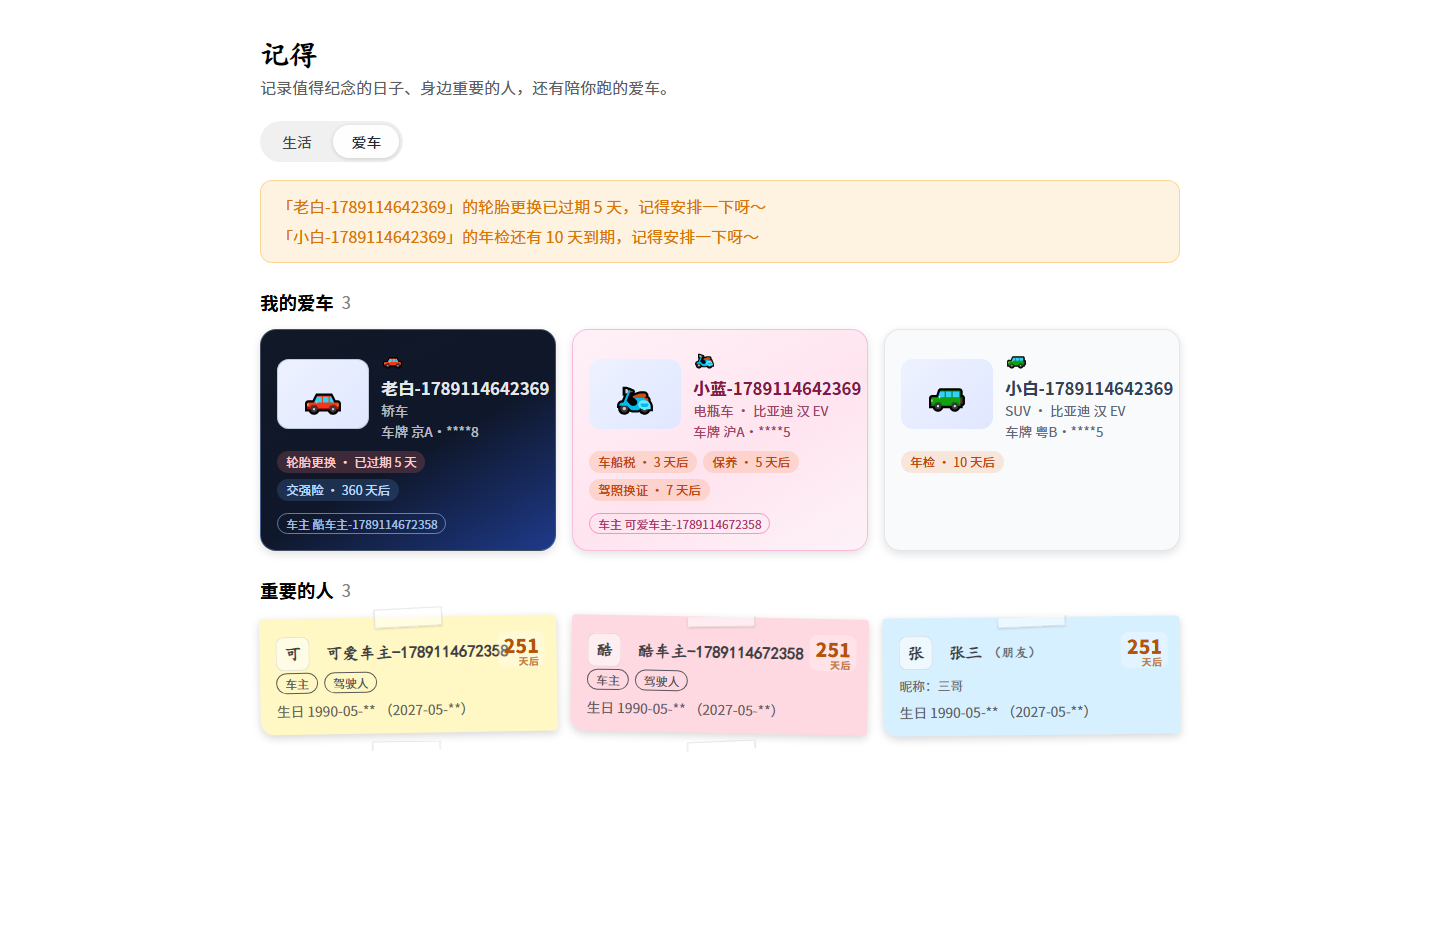
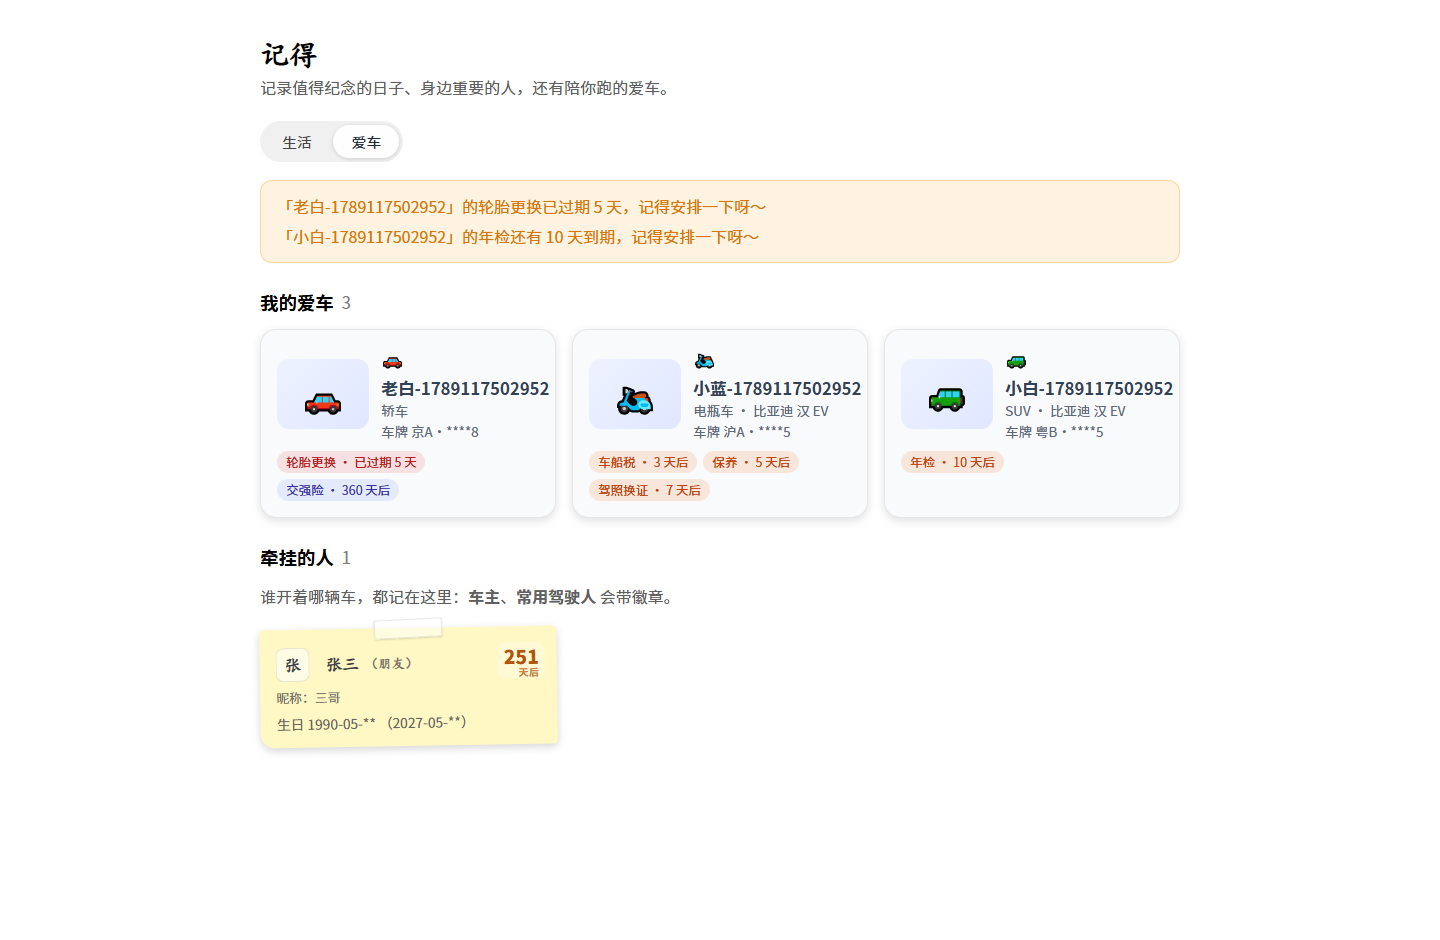
feat(front): 前台人员区块描述优化——标题改「牵挂的人」，说明随视图变化(生活=生日与纪念日;爱车=车主/常用驾驶人徽章)，同步主题覆盖模板与截图

diff --git a/docs/theme-override/clarity-important-dates.html b/docs/theme-override/clarity-important-dates.html
@@ -212,8 +212,15 @@
         </div>
       </div>
 
-      <!-- 重要的人：两种视图都显示 -->
-      <h2 class="id-block-title">重要的人 <span class="id-count" th:text="${#lists.size(people)}">1</span></h2>
+      <!-- 身边的人：两种视图都显示，标题与说明随视图变化 -->
+      <h2 class="id-block-title id-only-life">牵挂的人 <span class="id-count" th:text="${#lists.size(people)}">1</span></h2>
+      <p class="id-hero-sub id-only-life">他们的生日与纪念日，都替你记着。</p>
+      <h2 class="id-block-title id-only-car" th:if="${showCarSection != null and showCarSection}">
+        牵挂的人 <span class="id-count" th:text="${#lists.size(people)}">1</span>
+      </h2>
+      <p class="id-hero-sub id-only-car" th:if="${showCarSection != null and showCarSection}">
+        谁开着哪辆车，都记在这里：<b>车主</b>、<b>常用驾驶人</b> 会带徽章。
+      </p>
       <p class="id-hero-sub" th:if="${#lists.isEmpty(people)}">还没有添加。</p>
       <div class="id-board" th:unless="${#lists.isEmpty(people)}">
         <div class="id-memo id-person" th:each="p : ${people}"

diff --git a/src/main/resources/templates/important-dates.html b/src/main/resources/templates/important-dates.html
@@ -204,8 +204,15 @@
         </div>
       </div>
 
-      <!-- 重要的人：两种视图都显示 -->
-      <h2 class="id-block-title">重要的人 <span class="id-count" th:text="${#lists.size(people)}">1</span></h2>
+      <!-- 身边的人：两种视图都显示，标题与说明随视图变化 -->
+      <h2 class="id-block-title id-only-life">牵挂的人 <span class="id-count" th:text="${#lists.size(people)}">1</span></h2>
+      <p class="id-hero-sub id-only-life">他们的生日与纪念日，都替你记着。</p>
+      <h2 class="id-block-title id-only-car" th:if="${showCarSection != null and showCarSection}">
+        牵挂的人 <span class="id-count" th:text="${#lists.size(people)}">1</span>
+      </h2>
+      <p class="id-hero-sub id-only-car" th:if="${showCarSection != null and showCarSection}">
+        谁开着哪辆车，都记在这里：<b>车主</b>、<b>常用驾驶人</b> 会带徽章。
+      </p>
       <p class="id-hero-sub" th:if="${#lists.isEmpty(people)}">还没有添加。</p>
       <div class="id-board" th:unless="${#lists.isEmpty(people)}">
         <div class="id-memo id-person" th:each="p : ${people}"
